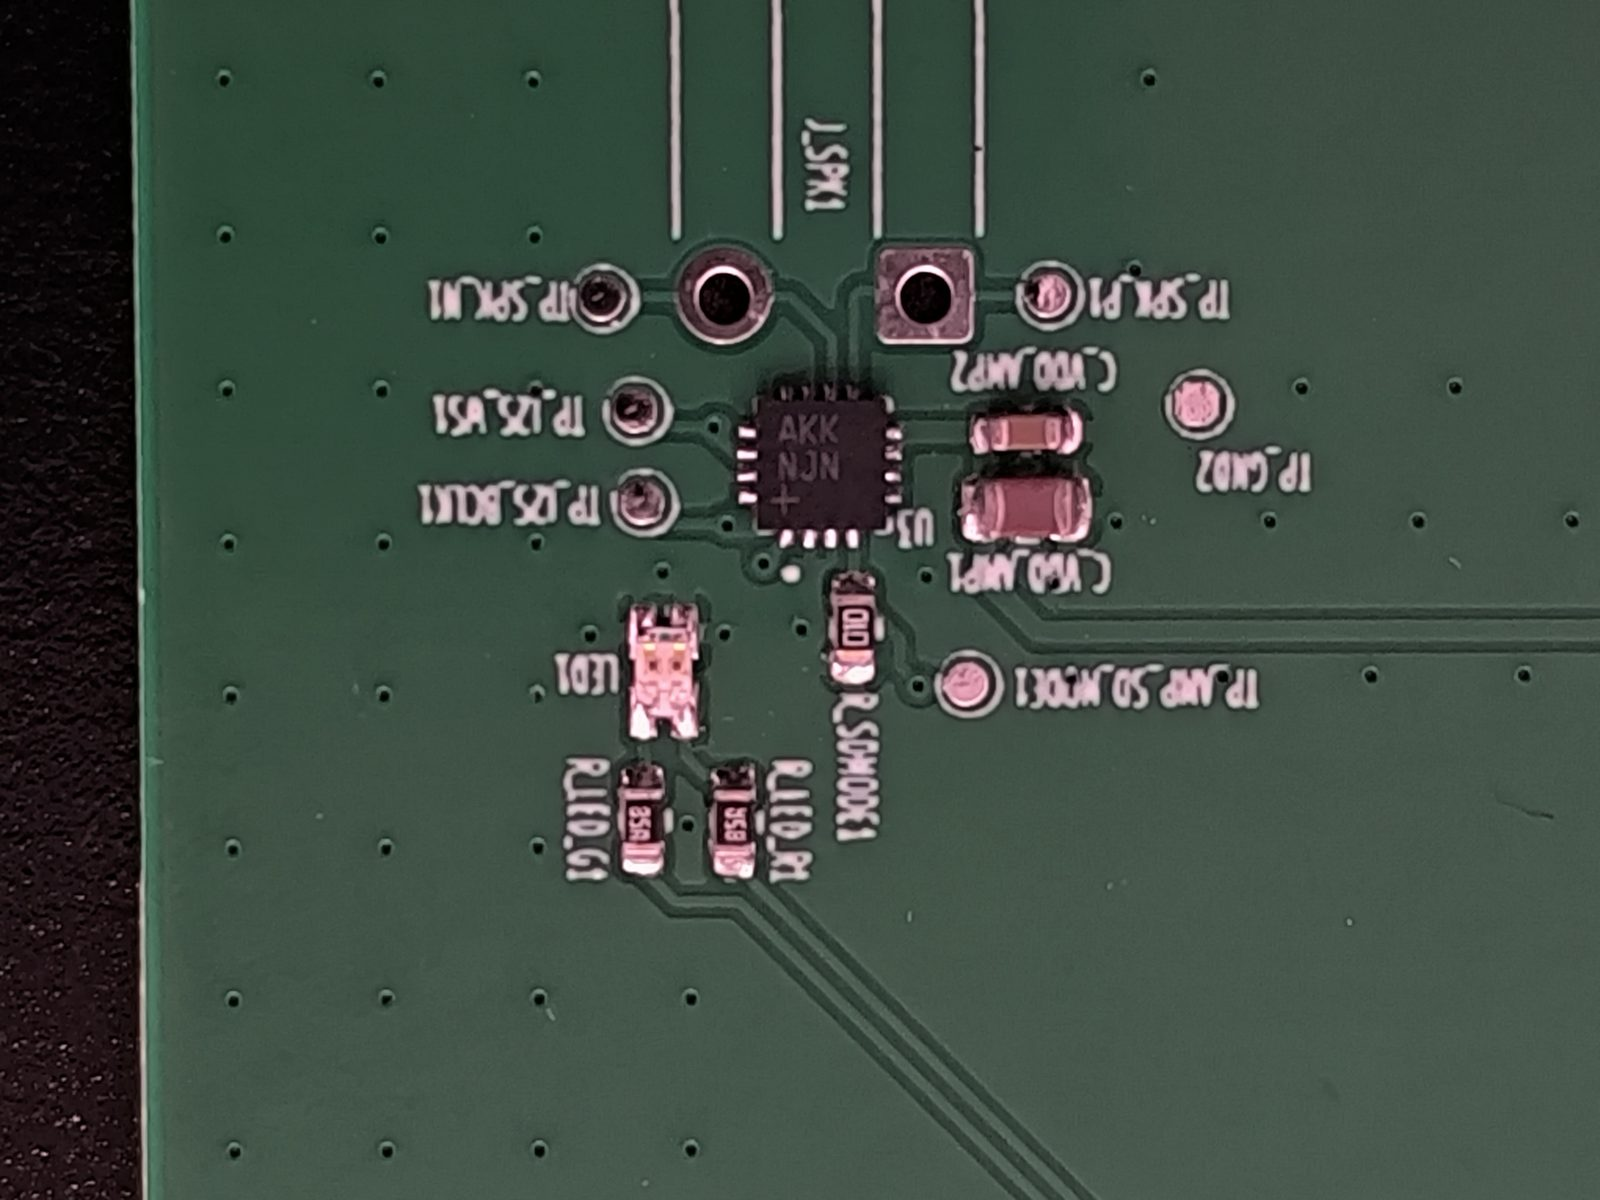
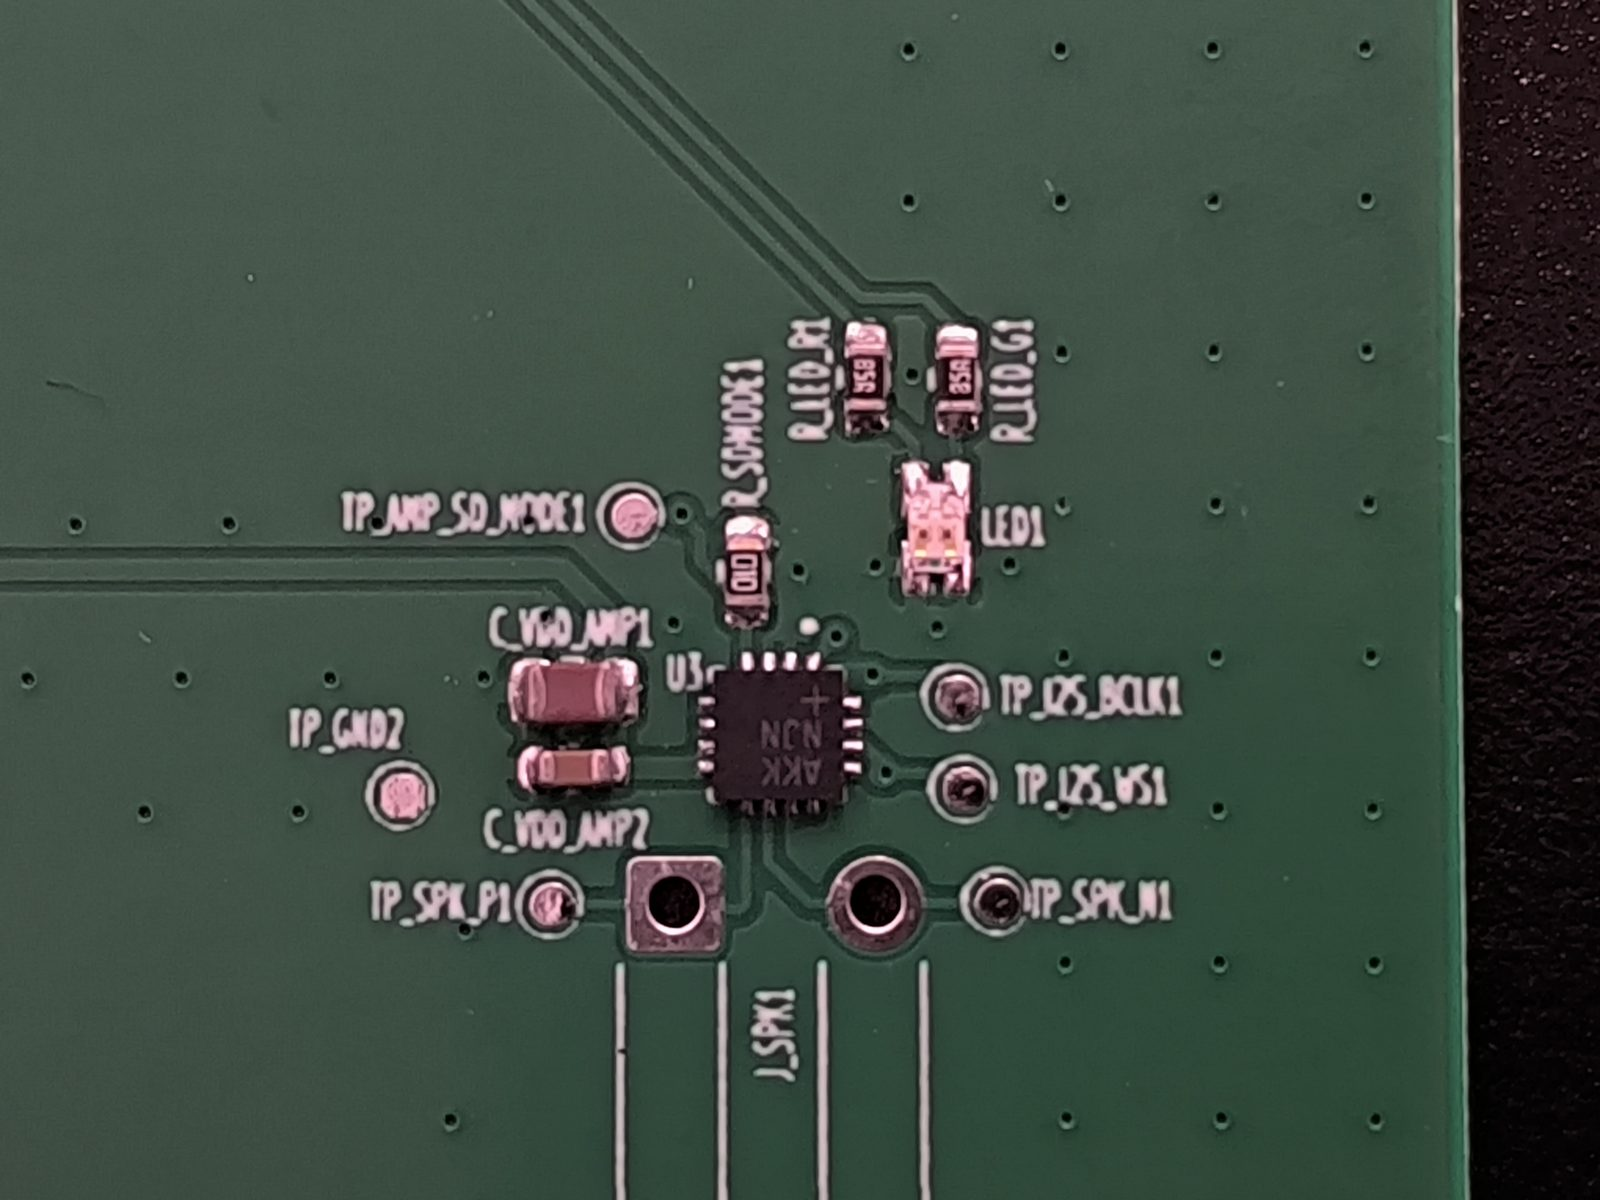
Doku: README-Firmware-Abschnitt V0.2 nachgezogen, Review-Fotos lesbar gedreht
Firmware-Abschnitt beschreibt die abgenommene V0.2-Firmware statt des Plans,
firmware/ in der Repo-Struktur ergänzt. Acht Fotos der PCBWay-Bewertung gedreht,
damit der Bestückungsdruck lesbar ist.

diff --git a/README.md b/README.md
@@ -78,6 +78,7 @@ clearbell/
 │   ├── Ausseneinheit/         Schaltplan, Platine, Schaltplan.pdf
 │   │   └── fertigung/         Gerber-ZIP, Stückliste, Bestückungsdaten
 │   └── Inneneinheit/          dito
+├── firmware/                  V0.2-Firmware (ESP-IDF), Werkzeuge, Testprotokoll
 ├── docs/
 │   ├── img/                   3D-Ansichten V0.2
 │   ├── pcbway-review/         Bewertung der PCBWay-Platinen mit Fotos (DE/EN)
@@ -109,13 +110,18 @@ Fazit · 🇬🇧 [English version](docs/pcbway-review/README.en.md)
 
 ## Firmware
 
-Die Firmware — Arduino Core, quittiertes UDP-Protokoll, HMAC-gesicherter Türbefehl,
-eigener WAV-Player — läuft auf V0.1 und liegt unter
-[`archiv/V0.1/firmware/`](archiv/V0.1/firmware/). Die V0.2-Firmware entsteht nach der
-Inbetriebnahme der V0.2-Platinen: Die Prinzipien des Protokolls werden übernommen,
-Paketformat, Türbefehl, Fern-Öffnen und Touch-Auswertung dagegen neu aufgesetzt.
+Die **V0.2-Firmware** liegt unter [`firmware/`](firmware/README.md): ein ESP-IDF-Projekt (v5.5.5) mit dem
+Arduino-Core als Komponente, ein Image für außen und eins für innen. Sie ist portiert, auf allen drei Boards
+getestet und am 12.11.2026 abgenommen. Enthalten sind unter anderem ein authentifiziertes Protokoll mit Sitzungen,
+Türbefehl per Challenge–Response, Touch mit adaptiver Baseline, Statusseite mit Gerätepasswort, Fern-Öffnen per
+Push aufs Handy, Einrichtung ohne PC über ein eigenes WLAN und signierte Updates mit Rückfall. Den Stand jedes
+Schritts und die Belege zeigen das [Firmware-README](firmware/README.md) und das
+[Testprotokoll](firmware/docs/Testprotokoll.md). Offen sind noch der 72-h-Dauertest und einige Handprüfungen.
 
-**Wie die V0.2-Firmware aufgebaut wird, beschreibt ein eigenes Dokument:** Architektur und
+Die Firmware der ersten Generation (Arduino, quittiertes UDP-Protokoll, HMAC-gesicherter Türbefehl, eigener
+WAV-Player) läuft weiter im Haus und liegt unter [`archiv/V0.1/firmware/`](archiv/V0.1/firmware/).
+
+**Wie die V0.2-Firmware aufgebaut ist und warum, beschreibt ein eigenes Dokument:** Architektur und
 Ausführungsmodell, authentifiziertes Protokoll, Startsequenz und Laufzeitverhalten,
 Datenhaltung und Flash-Aufteilung, ein Sicherheitskapitel mit Angreifermodell,
 **offen benannten Restrisiken** und einem Abgleich mit ETSI EN 303 645, Fehlerverhalten,
